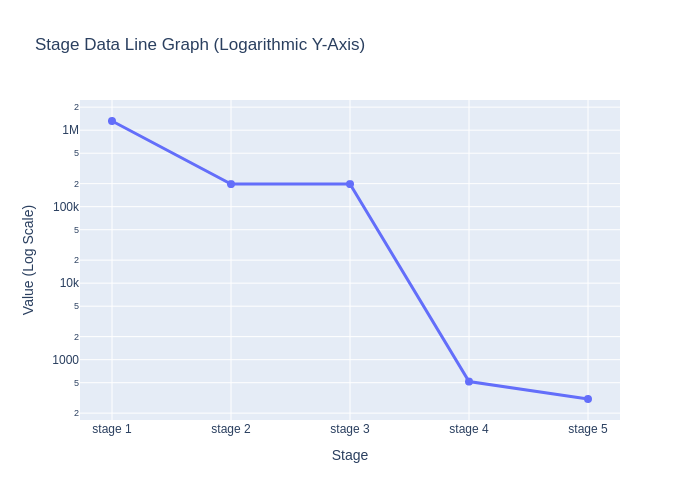
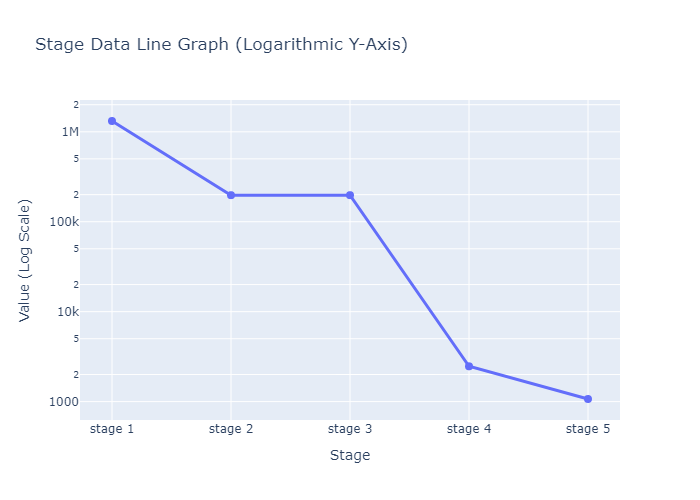
Added stage 7

diff --git a/src/models/patch_classifier.py b/src/models/patch_classifier.py
@@ -13,29 +13,21 @@ def classify_patch(token_changes: list[str], commit_msg: str):
     if diffs.get("true",0) > 0 and diffs.get("false",0) > 0:
         return "boolean change"
 
-    ## closure check
-    if diffs.get("if",0) > 0 and diffs.get("done",0) > 0:
-        return "check closure"
-
     ## null check
     if diffs.get("None",0) > 0 and diffs.get("is",0) > 0:
         return "null check"
 
     ## collision avoidance using hash or random
-    if diffs.get("hash",0) > 0 or diffs.get("random",0) > 0:
+    if diffs.get("hash",0) > 0 or diffs.get("random",0) > 0 or diffs.get("yield",0) != 0:
+        return "collision avoidance"
+    if diffs.get("lock", 0) > 0 or diffs.get("mutex",0) > 0 or diffs.get("cancel",0) > 0:
         return "collision avoidance"
 
     if diffs.get("dtype",0) > 0 or diffs.get("astype",0) > 0:
         return "explicit typing"
 
-    if diffs.get("lock", 0) > 0 or diffs.get("mutex",0) > 0:
-        return "thread lock"
-
-    if diffs.get("close",0) > 0 or diffs.get("open",0) > 0:
+    if diffs.get("close",0) > 0 or diffs.get("open",0) > 0 or diffs.get("detach",0) > 0:
         return "open/close resource"
-    
-    if diffs.get("detach",0) > 0:
-        return "Free GPU memory"
 
     ## try except
     if diffs.get("try",0) > 0 or diffs.get("except",0) > 0:
@@ -47,19 +39,15 @@ def classify_patch(token_changes: list[str], commit_msg: str):
         if "Exception" in key and diffs.get(key,0) > 0:
             return "Broaden exception type"
 
-    ## thread cancelling
-    if diffs.get("cancel",0) > 0:
-        return "thread cancelling"
-
     ## condition logic
     if diffs.get("and",0) > 0 or diffs.get("&&",0) > 0:
-        return "conditional tighten"
+        return "conditional tighten/loosen"
     if diffs.get("and",0) < 0 or diffs.get("&&",0) < 0:
-        return "conditional loosen"
+        return "conditional tighten/loosen"
     if diffs.get("or",0) > 0 or diffs.get("||",0) > 0:
-        return "conditional loosen"
+        return "conditional tighten/loosen"
     if diffs.get("or",0) < 0 or diffs.get("||",0) < 0:
-        return "conditional tighten"  
+        return "conditional tighten/loosen"  
     if diffs.get("not",0) != 0:
         return "conditional negate"
 
@@ -67,63 +55,45 @@ def classify_patch(token_changes: list[str], commit_msg: str):
     if diffs.get("finally",0) > 0:
         return "ensure cleanup"
 
-    ## check if values are being populated, ie var = None -> var = "value"
-    if diffs.get("None",0) < 0:
-        return "value population"
+    if diffs.get("None",0) < 0 or diffs.get("int",0) > 0 or diffs.get("float",0) != 0 or diffs.get("uint16",0) != 0 or diffs.get("uint32",0) != 0 or diffs.get("int16",0) != 0 or diffs.get("int32",0) != 0:
+        return "variable related change" 
 
     ## conditional change
     if diffs.get("if",0) != 0:
-        return "conditional change"
+        return "conditional add/remove"
 
     ## function creation
     if diffs.get("def",0) > 0:
         return "function creation"
-
-    ## code deletion
-    if diffs.get("del",0) != 0:
-        return "object deletion"
-
-    ## filter changes
-    if diffs.get("filter",0) != 0:
-        return "filter change"
-
-    ## SQL based fix
-    if diffs.get("sqlalchemy",0) != 0 or diffs.get("sqlite3",0) != 0 or diffs.get("psycopg2",0) != 0 or diffs.get("pymysql",0) != 0:
-        return "sql fix"
     
-    ## numpy based fix
+    ## numpy/regex based fix
     if diffs.get("numpy",0) != 0 or diffs.get("np",0) != 0 or adds.get("np",0) != 0 or adds.get("numpy",0) != 0:
-        return "numpy fix"
-
-    ## regex based fix
+        return "libary related fix"
     if diffs.get("re",0) != 0 or diffs.get("regex",0) != 0 or diffs.get("match",0) != 0 or "regex" in commit_msg.lower():
-        return "regex fix"
+        return "libary related fix"
+    if diffs.get("sqlalchemy",0) != 0 or diffs.get("sqlite3",0) != 0 or diffs.get("psycopg2",0) != 0 or diffs.get("pymysql",0) != 0:
+        return "libary related fix"
     
     ## if time.sleep is used to fix race
-    if diffs.get("time",0) != 0 and diffs.get("sleep",0) != 0:
-        return "sleep fix"
+    if diffs.get("time",0) != 0 or diffs.get("sleep",0) != 0 or diffs.get("timeout",0) != 0:
+        return "time related fix"
     
         ## if time.sleep is used to fix race
     if diffs.get("str",0) != 0:
         return "string related fix"
-    
-    ## if timeout is used, most likely race condition
-    if diffs.get("timeout",0) != 0:
-        return "timeout fix"
     
     if adds.get("import",0) > 0 or dels.get("import",0) > 0:
         return "import change"
     if diffs.get("as",0) > 0 and diffs.get("with",0) > 0:
         return "import change"
 
-    if diffs.get("int",0) > 0:
-        return "int related fix" 
-
-    ## if yield fix race
-    if diffs.get("yield",0) != 0:
-        return "yield fix"
-    if diffs.get("float",0) != 0 or diffs.get("uint16",0) != 0 or diffs.get("uint32",0) != 0 or diffs.get("int16",0) != 0 or diffs.get("int32",0) != 0:
-        return "Larger integer"
+    ## types not really fitting elsewhere
+    if diffs.get("del",0) != 0:
+        return "misc change"
+    if diffs.get("filter",0) != 0:
+        return "misc change"
+    if "typo" in commit_msg.lower():
+        return "misc change"
 
     ## if the fix was solved be only deleting code
     if len(adds) == 0 and len(dels) != 0:
@@ -132,9 +102,5 @@ def classify_patch(token_changes: list[str], commit_msg: str):
     ## if the change was made but was not registered by the parser
     if len(diffs) == 0:
         return "no syntax change"
-
-    ## if typo in commit msg
-    if "typo" in commit_msg.lower():
-        return "typo fix"
 
     return None

diff --git a/src/main.py b/src/main.py
@@ -1,4 +1,5 @@
 import math
+import random
 from cleaner import Cleaner
 from models.graph import BarGraph, FrequencyMatrix
 from patcher import Patcher
@@ -20,6 +21,7 @@ def main():
         ("Categorizing bug type", categorized_bug_4),
         ("Categorizing patch type", categorized_type_5),
         ("Frequency table", frequency_table_6),
+        ("Validation", validation_7),
     ]
 
     selector = Selector(options)
@@ -251,10 +253,28 @@ def frequency_table_6():
     plot = FrequencyMatrix()
 
     for file in filereader.readJsonLines('./data_stages/5_categorized_patch'):
+        if file.get('patch_type') == "unknown":
+            continue
         plot.add_to_frequency_dict(file.get('patch_type'), file.get('category'))
     plot.plot_matrix(title="Frequency Matrix Norm",normalize=True)
     plot.plot_matrix(title="Frequency Matrix")
 
+def validation_7():
+    filewriter = FileWriter()
+    filereader = FileReader()
+
+    all_commits = []
+
+    for file in filereader.readJsonLines('./data_stages/5_categorized_patch'):
+        if file.get('patch_type') == "unknown":
+            continue
+        all_commits.append(file)
+    
+    sampled_commits = random.sample(all_commits, 50) if len(all_commits) >= 50 else all_commits
+
+    filewriter.cleanFolder(f'./data_stages/7_validation/')
+    for file in sampled_commits:
+        filewriter.writeJsonFile(f'./data_stages/7_validation/samples.jsonl', file)
 
 if __name__ == '__main__':
     main()

diff --git a/src/graphs/commit_stages.py b/src/graphs/commit_stages.py
@@ -4,8 +4,8 @@ data = {
     "stage 1": 1318263,
     "stage 2": 197408,
     "stage 3": 197408,
-    "stage 4": 517,
-    "stage 5": 306,
+    "stage 4": 2468,
+    "stage 5": 1069,
 }
 
 # Extract stages (x-axis) and values (y-axis) from the dictionary
